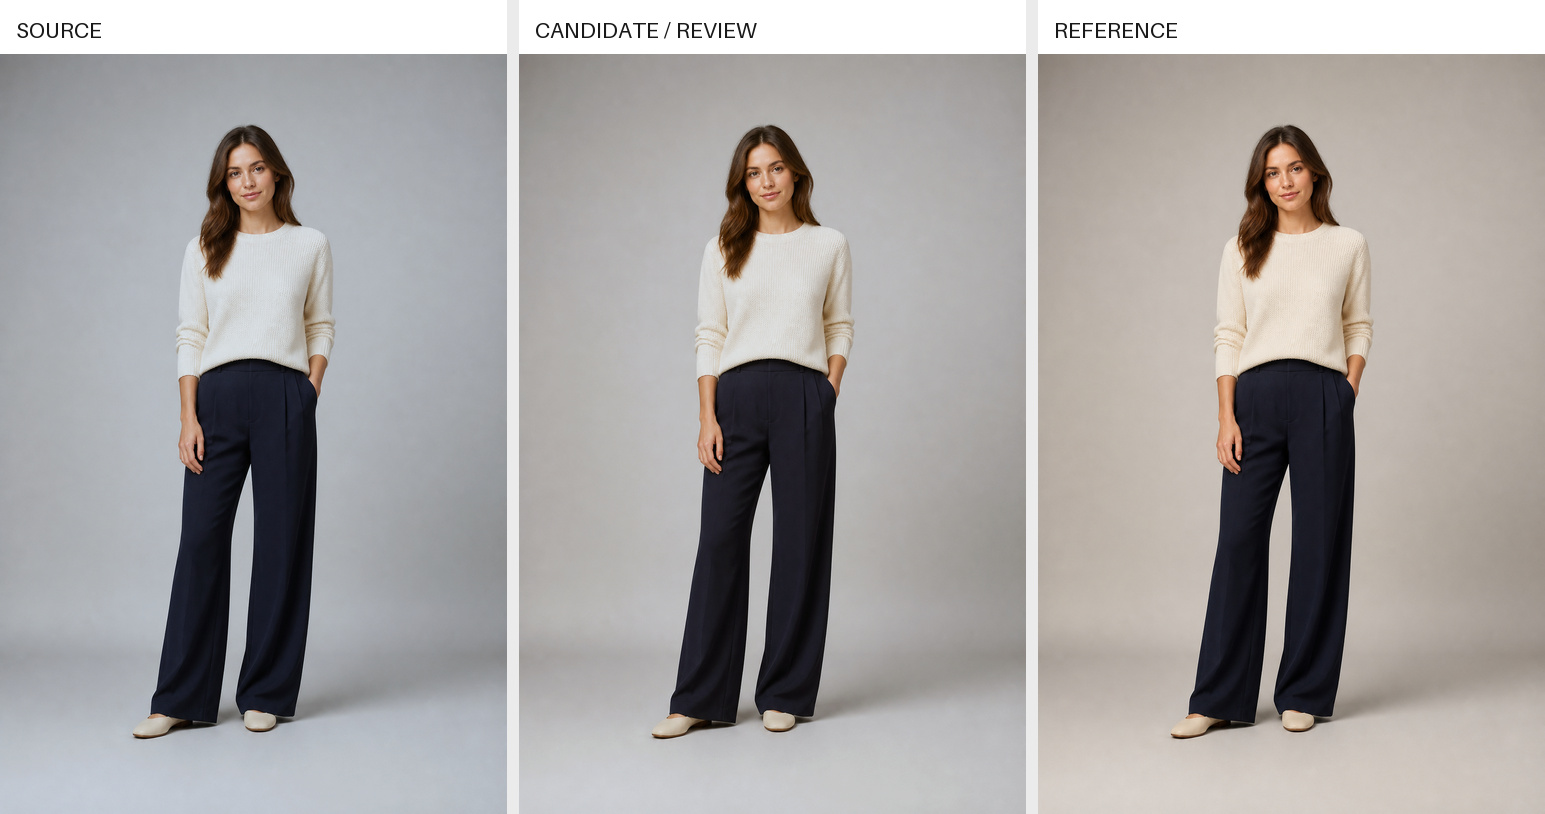
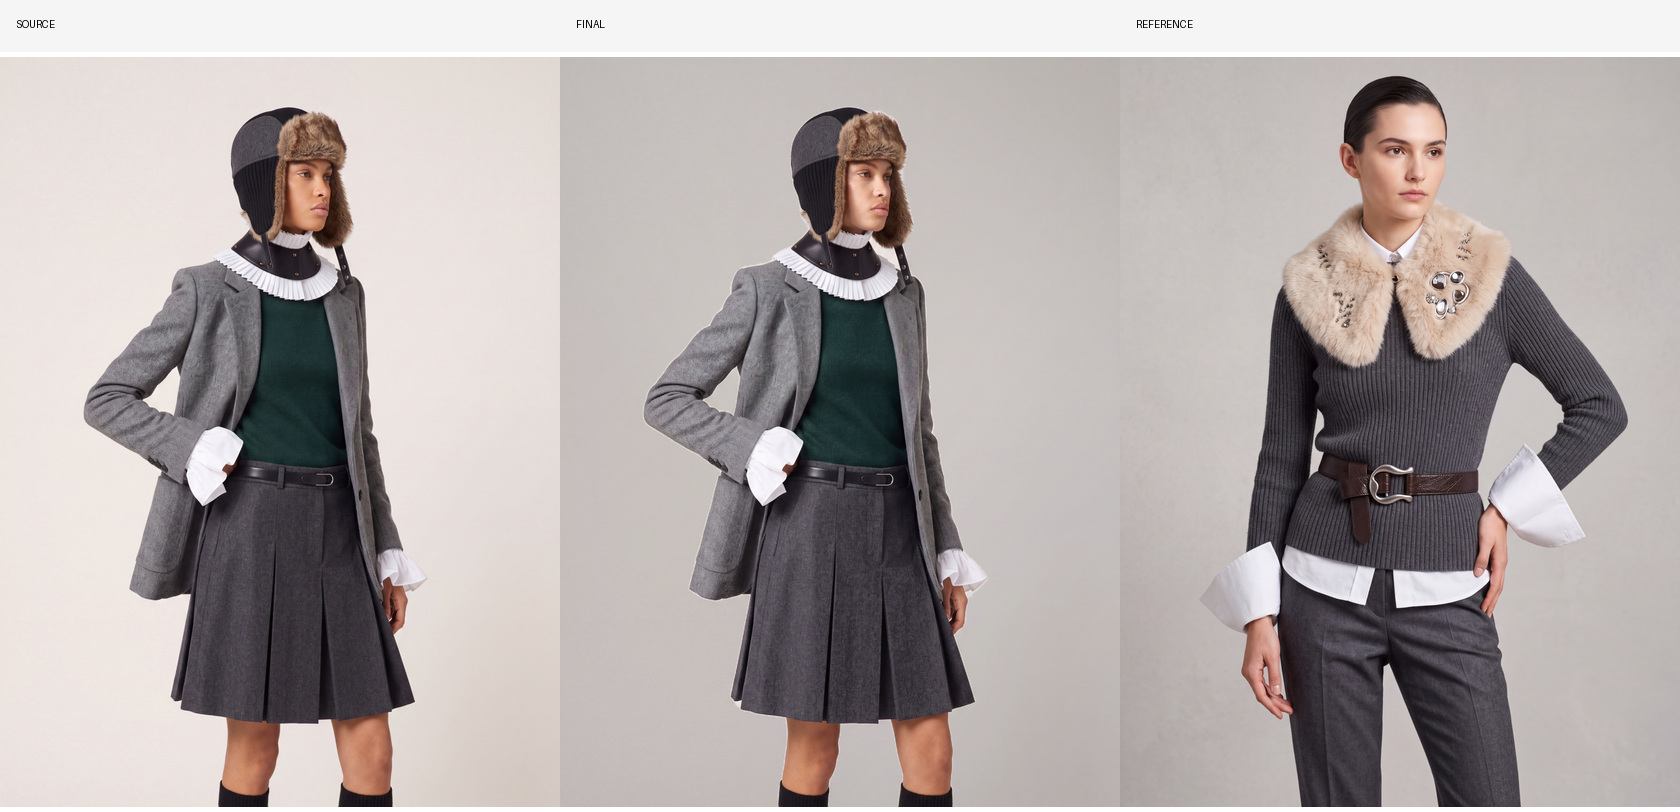
docs: update color matching showcase

diff --git a/README.md b/README.md
@@ -17,9 +17,9 @@ Local-first, region-aware color standardization for fashion SKU image sets.
 
 </div>
 
-![SOURCE、待复核校色候选与参考标准的三联对照](assets/readme-color-match-demo.jpg)
+![原图、最终校色结果与参考图的三联对照](assets/readme-color-match-demo.jpg)
 
-<p align="center"><sub>原创合成图演示：左侧为人为制造色偏的输入，中间为本项目生成的待复核候选，右侧为参考标准。背景差异指标由 3.219 降至 1.792；该示例用于说明工作流程，不代表物理绝对商品色。</sub></p>
+<p align="center"><sub>真实测试效果：左侧为原图，中间为校色结果，右侧为参考图。系统分别匹配背景光场以及人物、服装与肤色的曝光和冷暖，同时保护原有服装颜色、材质纹理与真实肤色。</sub></p>
 
 ## 它解决什么问题
 
